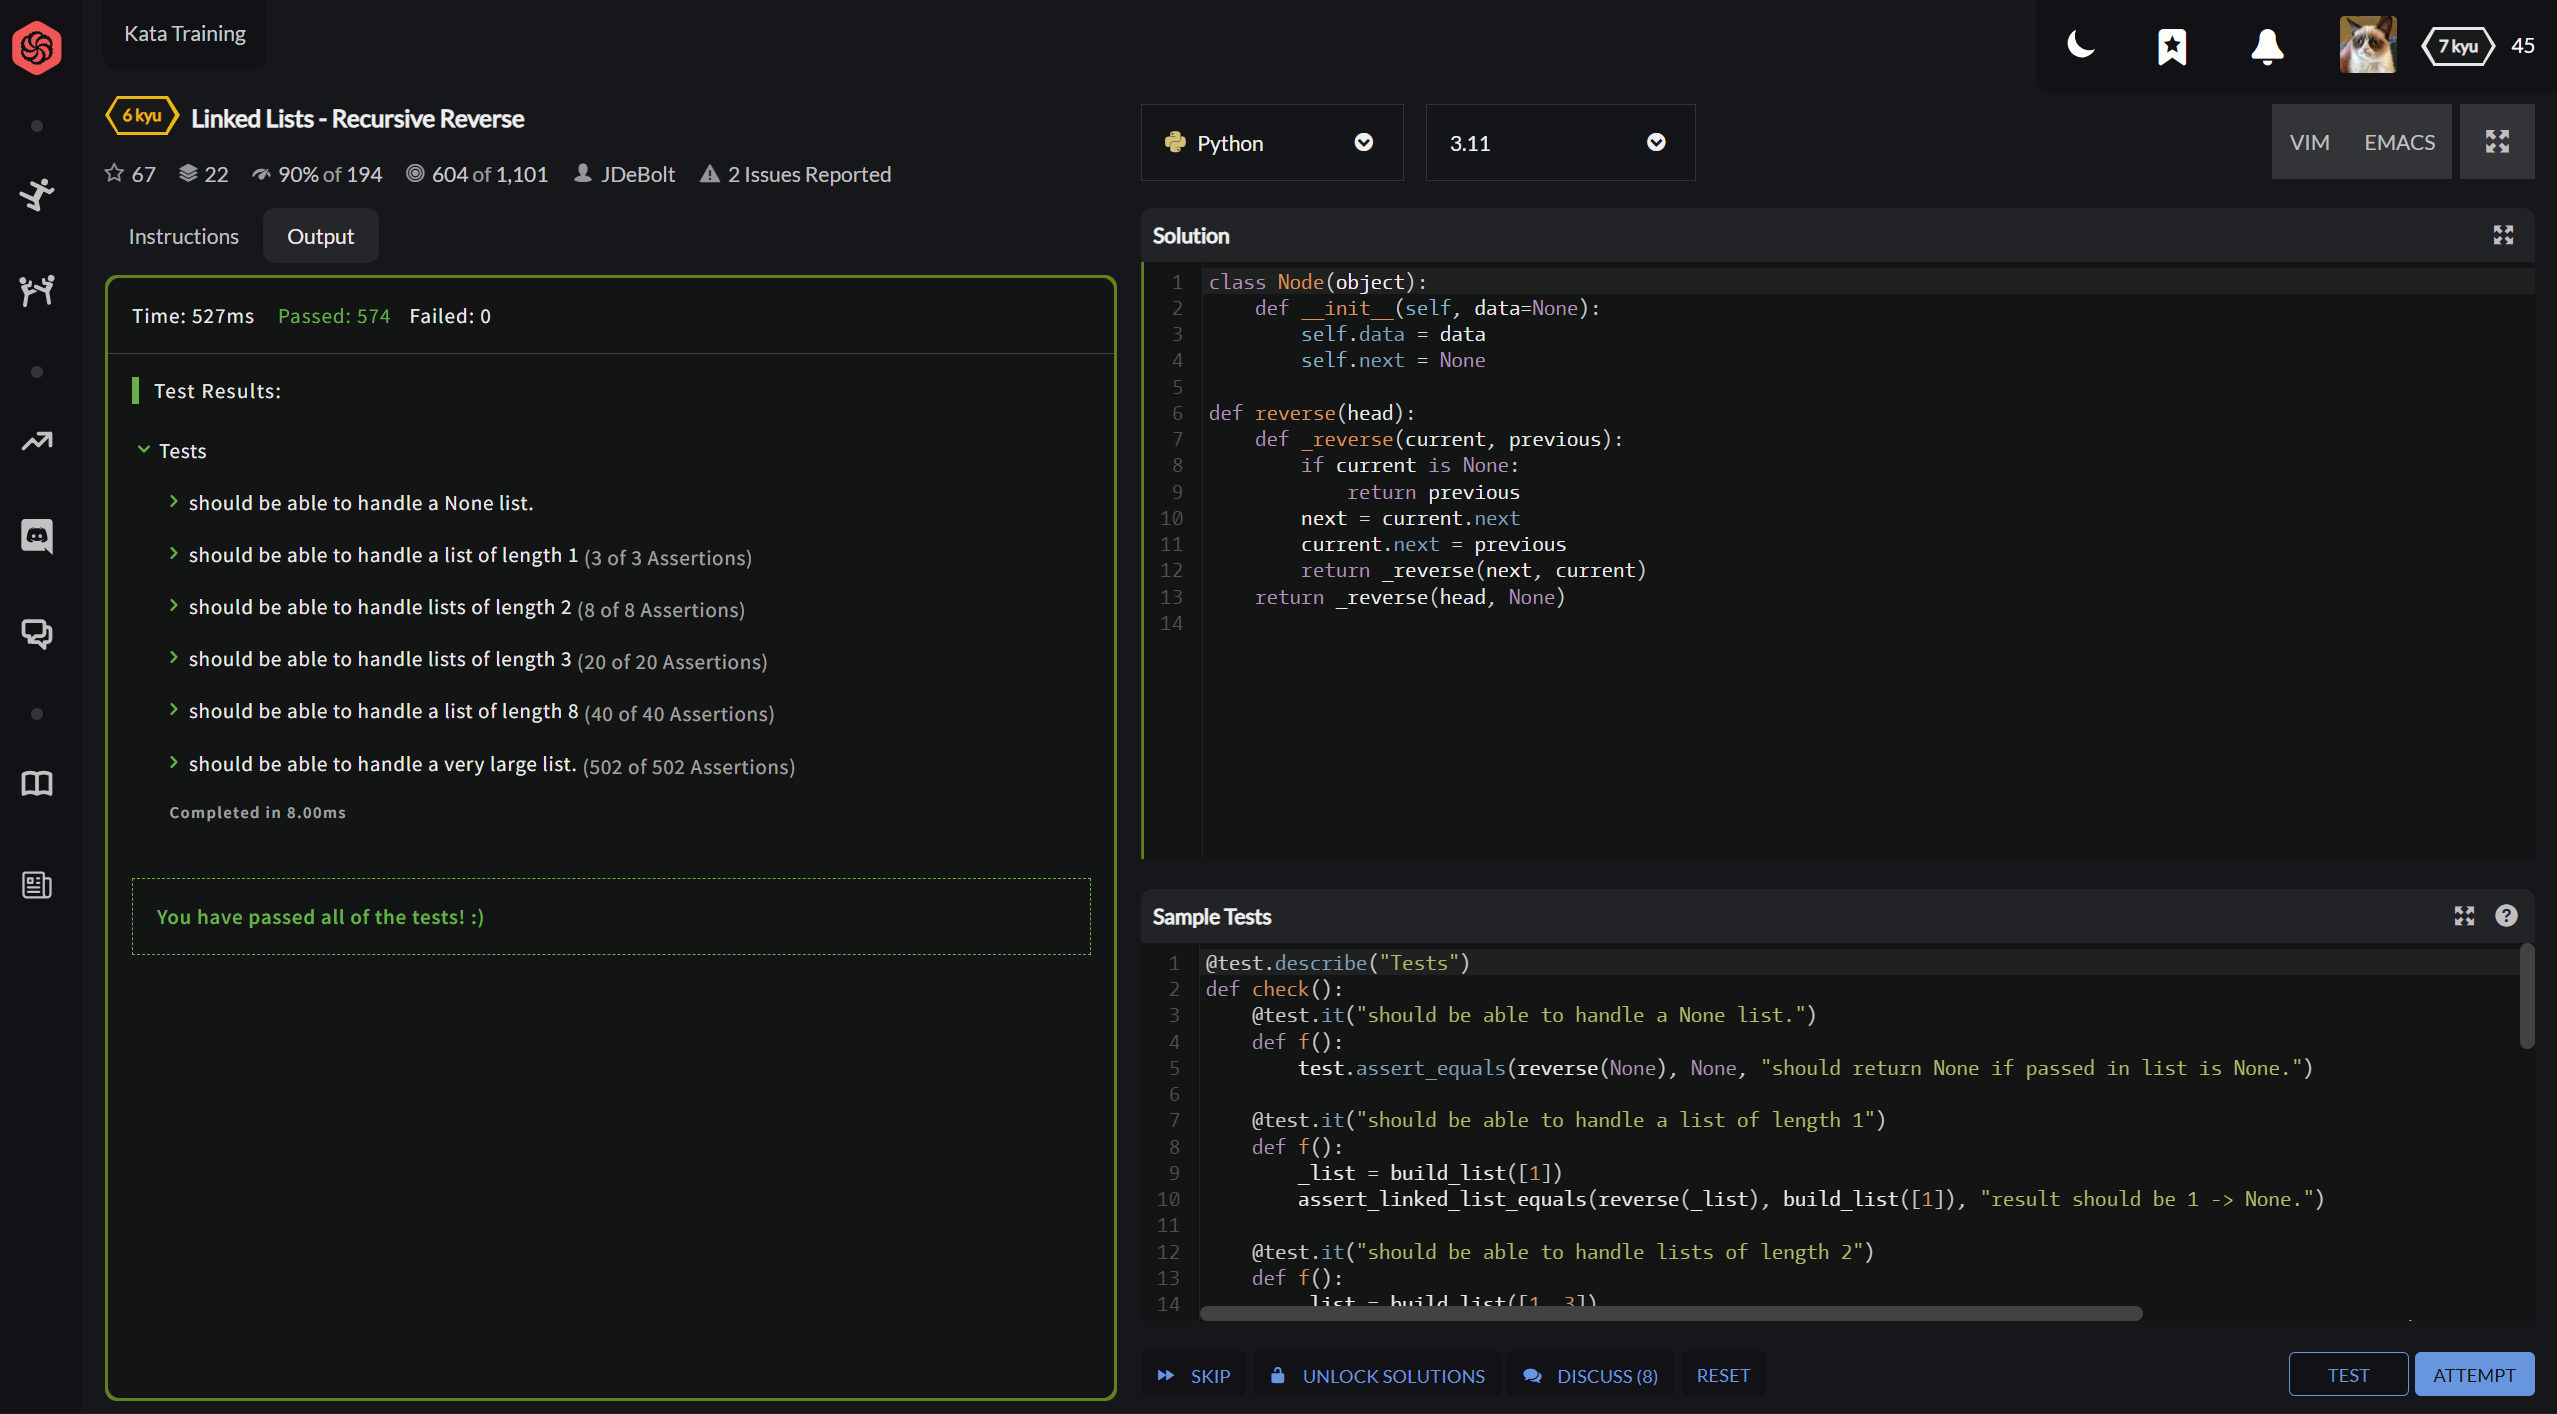
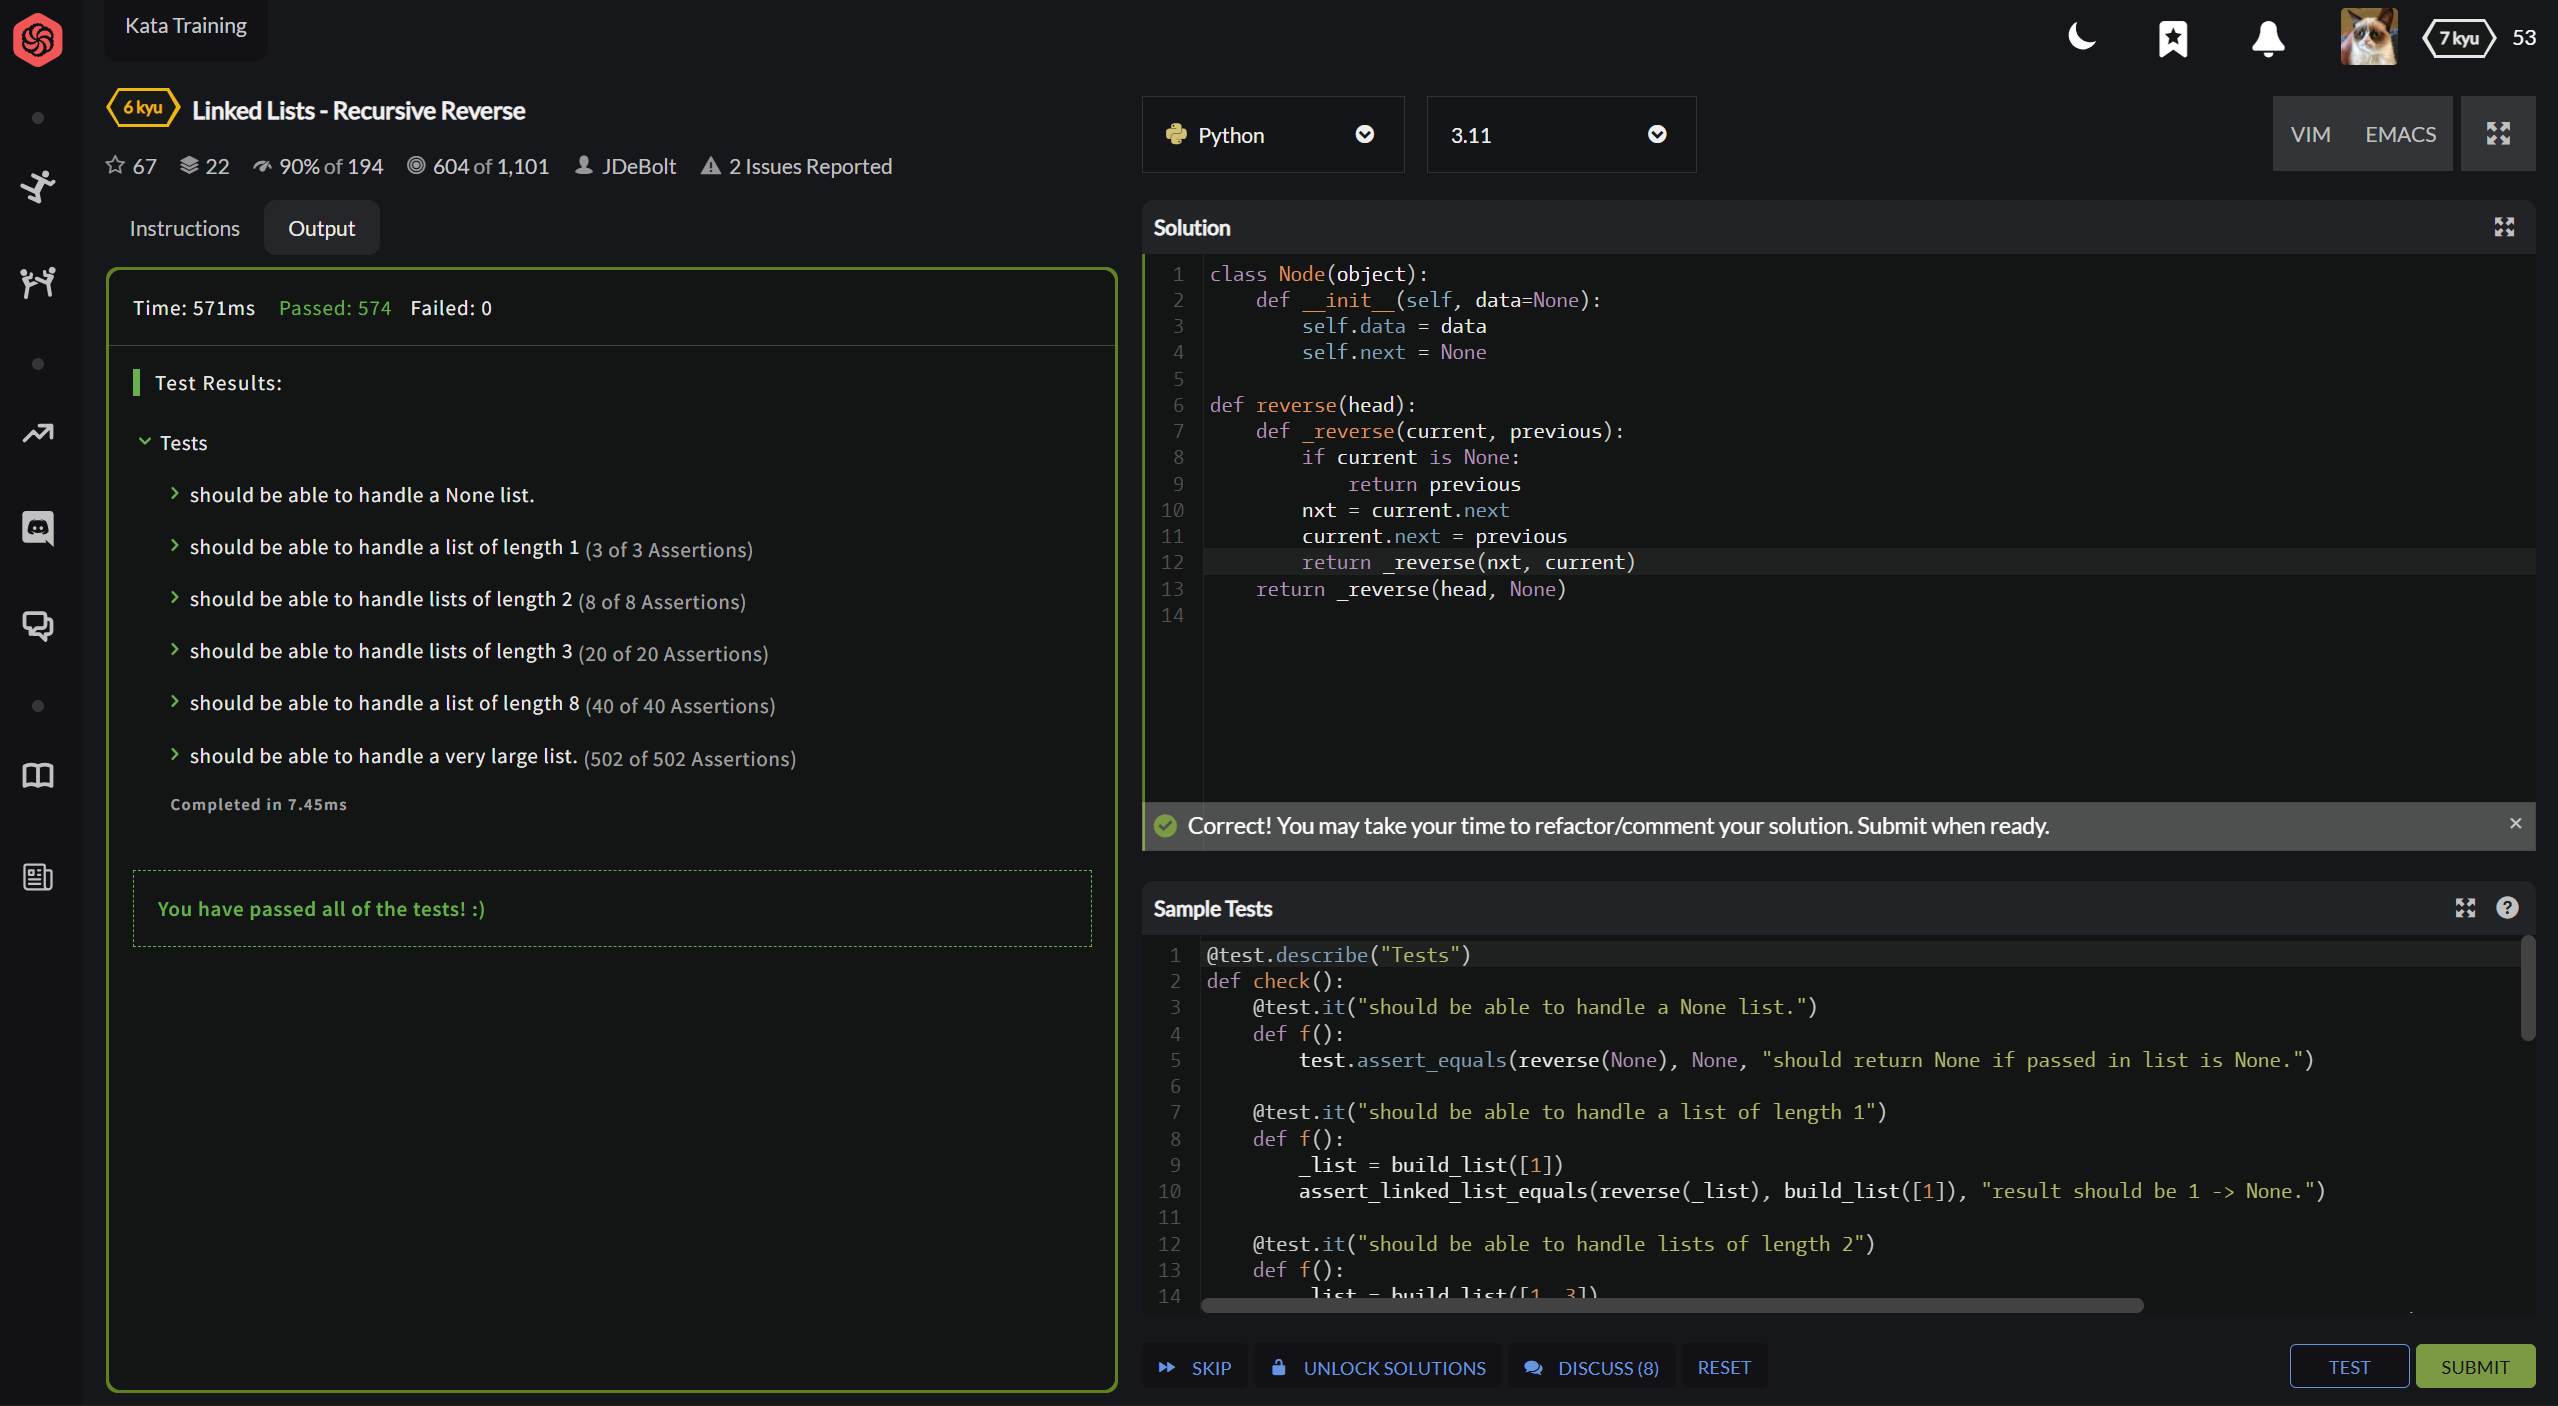
Fixed "next" variable.

diff --git a/Linked Lists - Recursive Reverse/code.py b/Linked Lists - Recursive Reverse/code.py
@@ -7,7 +7,7 @@ def reverse(head):
     def _reverse(current, previous):
         if current is None:
             return previous
-        next = current.next
+        nxt = current.next
         current.next = previous
-        return _reverse(next, current)
+        return _reverse(nxt, current)
     return _reverse(head, None)
